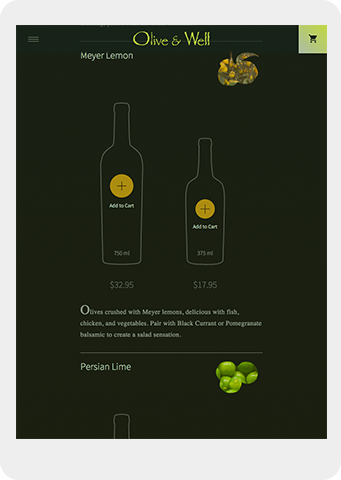
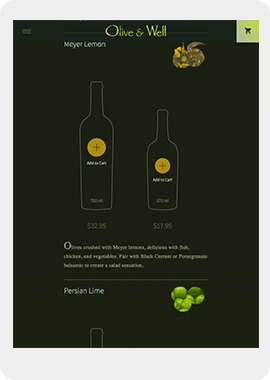
more changes added to recent project looking good in most breakpoints

diff --git a/css/styles.css b/css/styles.css
@@ -1,1 +1,1 @@
[2 lines of base64/hex data omitted]

diff --git a/_/components/sass/_main.scss b/_/components/sass/_main.scss
@@ -363,13 +363,14 @@
 			height: auto;
 			@include span(9 of 12);
 			position: relative;
-			padding-left: ms(4);
+			padding-left: 1.6vw;
 			padding-top: ms(0);
 
 			img {
 				position: relative;
 				padding: ms(0);
 				display: inline;
+				max-width: 60%;
 			}
 
 			::before, img:nth-of-type(3) {
@@ -379,7 +380,7 @@
 
 		.projects {
 			@include span(12 of 12);
-			padding: 0px;
+			padding: auto;
 			position: relative;
 
 			.projectbg {
@@ -387,9 +388,9 @@
 			}
 
 			.projectInfo {
-				@include span(2 at 2 of 12);
+				@include span(3 of 12);
 				position: relative;
-				padding: ms(1) 0px ms(5);
+				padding: ms(1) auto ms(5);
 				font-weight: 300;
 				@include transform (translateX(0));
 				left: 0;
@@ -531,13 +532,14 @@
 			height: auto;
 			@include span(9 of 12);
 			position: relative;
-			padding-left: ms(4);
+			padding-left: 6.4vw;
 			padding-top: ms(0);
 
 			img {
 				position: relative;
-				padding: ms(0);
+				padding: 1.6vw;
 				display: inline;
+				max-width: 100%;
 			}
 
 			::before, img:nth-of-type(3) {
